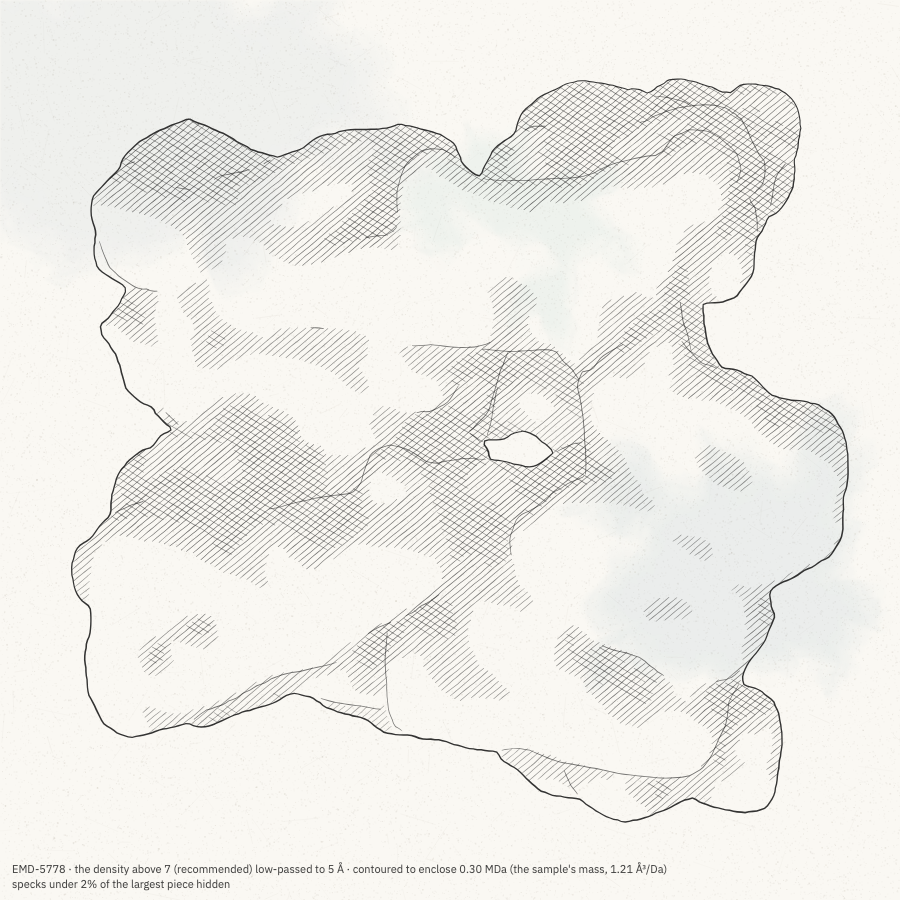
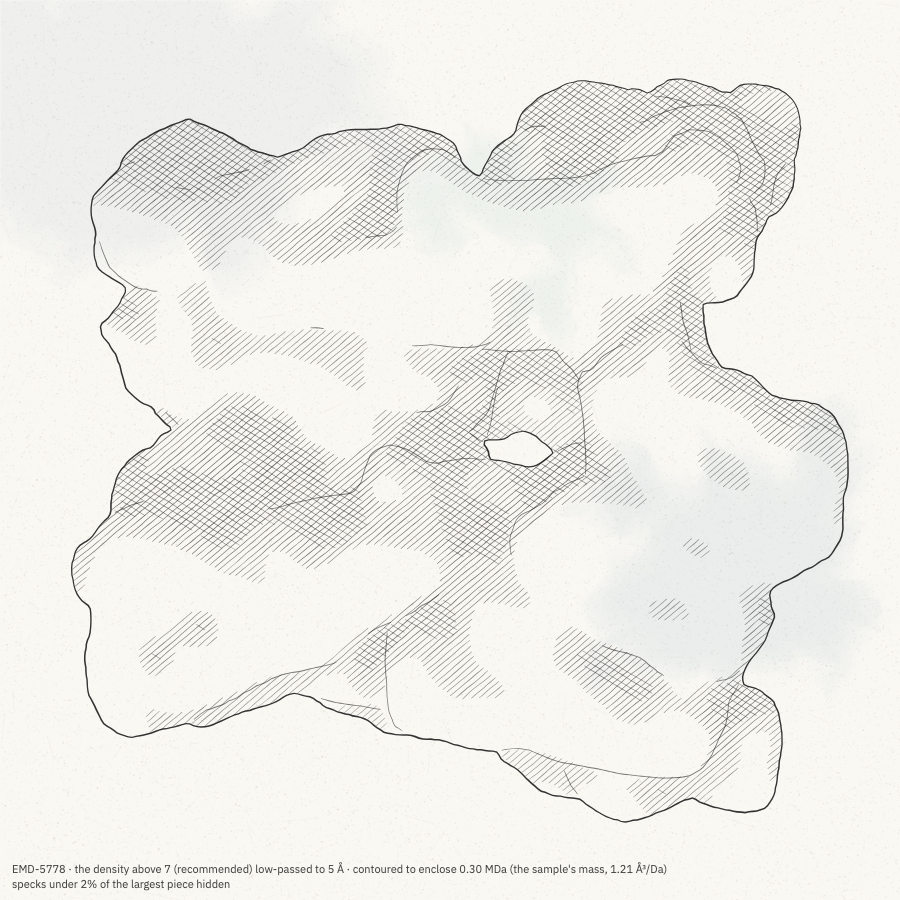
Maps: close-ups keep every atom's density; the docs' close-ups show density again
The README's close-ups (Trp93, Asp89) had no density at all: they were made while zones were low-passed. Remade.
And at full resolution a close-up breaks into a blob around each atom while its largest piece is often a neighbour's
that carving then removes, so the 2%-of-the-largest speck filter dropped a residue's own density; a close-up now
drops only true specks. Asp89 is drawn at 3 σ, where its backbone is in density and its carboxylate is not (at the
recommended 4.4 σ only its N is inside the contour, as the map says).

diff --git a/app/src/classic/mapprep.ts b/app/src/classic/mapprep.ts
@@ -131,7 +131,9 @@ export function prepareMap(whole: DensityMap, style: Style, s: Structure | null,
     if (R > 0 || o.finish !== 'sketch') { const par = new Int32Array(nv); for (let v = 0; v < nv; v++) par[v] = v; const find = (x: number) => { while (par[x] !== x) { par[x] = par[par[x]]; x = par[x] } return x };
       for (let t = 0; t < tri.length; t += 3) { const a = find(tri[t]), b = find(tri[t + 1]), c = find(tri[t + 2]); par[b] = a; par[find(c)] = a }
       const size = new Map<number, number>(); for (let v = 0; v < nv; v++) { const r = find(v); size.set(r, (size.get(r) || 0) + 1) }
-      const big = Math.max(0, ...size.values()) * 0.02, keep: number[] = [];
+      // (a close-up at full resolution breaks into a blob around each atom, and its largest piece is often a neighbour's
+      // that carving then removes: there only true specks go, whatever their neighbours' size)
+      const big = zoneSel ? 12 : Math.max(0, ...size.values()) * 0.02, keep: number[] = [];
       for (let t = 0; t < tri.length; t += 3) if (size.get(find(tri[t]))! >= big) keep.push(tri[t], tri[t + 1], tri[t + 2]); else dust++;
       tri = new Uint32Array(keep) }
     if (carve > 0 && atoms.length) { const cd = zoneSel ? Float32Array.from({ length: nv }, (_, v) => carveDist(iso.positions[v * 3], iso.positions[v * 3 + 1], iso.positions[v * 3 + 2])) : dist;
@@ -184,7 +186,7 @@ export function prepareMap(whole: DensityMap, style: Style, s: Structure | null,
   const caption = [m.name, R > 0 ? `the density above ${+level.toPrecision(3)}${style.map.level == null && style.map.sigma == null && m.level != null ? ' (recommended)' : ''} low-passed to ${R} Å` : '', byVolume ? mass <= 0 ? 'contoured at 2 σ' : `contoured to enclose ${(mass / 1e6 >= 0.1 ? (mass / 1e6).toFixed(2) + ' MDa' : Math.round(mass / 1e3) + ' kDa')} (${massFrom}'s mass, 1.21 Å³/Da)`
       : `contoured at ${+level.toPrecision(3)}${style.map.level == null && style.map.sigma == null && m.level != null ? ' (recommended)' : ''}, ${sigma.toFixed(1)} σ`,
     o.style === 'layers' ? `levels ×${factors.join(', ×')}` : '', zoned ? 'the density within 5 Å of the model' : o.carve > 0 && atoms.length ? `carved at ${o.carve} Å of ${zoneSel ? o.zone : 'the model'}` : zoneSel ? `the density joined to ${o.zone}, within ${zonePad} Å` : m !== whole ? `cropped to the model's box and ${o.crop} Å` : '',
-    dust ? 'specks under 2% of the largest piece hidden' : '', g0 !== m && !byVolume ? `drawn at ${g.step[0].toFixed(1)} Å per voxel${R > 0 ? '' : ', at the level enclosing the same volume'}` : '',
+    dust ? zoneSel ? 'specks hidden' : 'specks under 2% of the largest piece hidden' : '', g0 !== m && !byVolume ? `drawn at ${g.step[0].toFixed(1)} Å per voxel${R > 0 ? '' : ', at the level enclosing the same volume'}` : '',
     o.localResolution === 'bfactor' && s ? 'line looseness from B-factors' : o.localResolution === 'map' && localRes ? 'line looseness from local resolution' : ''].filter(Boolean).join(' · ');
   const corners: number[][] = []; for (const a of [0, 1]) for (const b of [0, 1]) for (const c of [0, 1]) corners.push(turn(g.origin[0] + a * (g.nx - 1) * g.step[0], g.origin[1] + b * (g.ny - 1) * g.step[1], g.origin[2] + c * (g.nz - 1) * g.step[2]));
   const out: EngineMap = { name: m.name, levels, primary, wire, unsupported, caption, sample: samplerOf(g, base, level, gLevel),

diff --git a/python/molsketch/_core.js b/python/molsketch/_core.js
@@ -7018,7 +7018,7 @@
           const r = find(v);
           size.set(r, (size.get(r) || 0) + 1);
         }
-        const big = Math.max(0, ...size.values()) * 0.02, keep2 = [];
+        const big = zoneSel ? 12 : Math.max(0, ...size.values()) * 0.02, keep2 = [];
         for (let t = 0; t < tri.length; t += 3) if (size.get(find(tri[t])) >= big) keep2.push(tri[t], tri[t + 1], tri[t + 2]);
         else dust++;
         tri = new Uint32Array(keep2);
@@ -7115,7 +7115,7 @@
       byVolume ? mass <= 0 ? "contoured at 2 \u03C3" : `contoured to enclose ${mass / 1e6 >= 0.1 ? (mass / 1e6).toFixed(2) + " MDa" : Math.round(mass / 1e3) + " kDa"} (${massFrom}'s mass, 1.21 \xC5\xB3/Da)` : `contoured at ${+level.toPrecision(3)}${style.map.level == null && style.map.sigma == null && m.level != null ? " (recommended)" : ""}, ${sigma.toFixed(1)} \u03C3`,
       o.style === "layers" ? `levels \xD7${factors.join(", \xD7")}` : "",
       zoned ? "the density within 5 \xC5 of the model" : o.carve > 0 && atoms.length ? `carved at ${o.carve} \xC5 of ${zoneSel ? o.zone : "the model"}` : zoneSel ? `the density joined to ${o.zone}, within ${zonePad} \xC5` : m !== whole ? `cropped to the model's box and ${o.crop} \xC5` : "",
-      dust ? "specks under 2% of the largest piece hidden" : "",
+      dust ? zoneSel ? "specks hidden" : "specks under 2% of the largest piece hidden" : "",
       g0 !== m && !byVolume ? `drawn at ${g2.step[0].toFixed(1)} \xC5 per voxel${R > 0 ? "" : ", at the level enclosing the same volume"}` : "",
       o.localResolution === "bfactor" && s ? "line looseness from B-factors" : o.localResolution === "map" && localRes ? "line looseness from local resolution" : ""
     ].filter(Boolean).join(" \xB7 ");

diff --git a/tools/make_images.py b/tools/make_images.py
@@ -76,7 +76,7 @@ def turntable():
 
 def maps():
     """cryo-EM maps: TRPV1 (EMD-5778) on its own and with its model (3J5P); Trp93 of apoferritin (7A4M, EMD-11638) in
-    its density at the recommended level and at 3 σ; Asp89, whose side chain has lost its density"""
+    its density at the recommended level and at 3 σ; Asp89 at 3 σ, whose side chain has lost its density"""
     say(ms.fetch_map("EMD-5778").save(IMG / "map_alone.png", (900, 900)))
     say(ms.fetch_map("EMD-5778").look("ink").save(IMG / "map_alone_ink.png", (900, 900)))
     say(ms.fetch("3J5P", map=True).save(IMG / "map_with_model.png", (900, 900)))
@@ -85,7 +85,7 @@ def maps():
     for name, extra in (("map_side_chain", {}), ("map_side_chain_3sigma", {"sigma": 3})):
         say(ms.fetch("7A4M", map=True).map(zone=trp, carve=2, **extra).show(sticks=trp, cartoon=None).save(IMG / f"{name}.png", (900, 900)))
     asp = "resi 89 and not hydro"
-    say(ms.fetch("7A4M", map=True).map(zone=asp, carve=2).show(sticks=asp, cartoon=None).save(IMG / "map_damaged_side_chain.png", (900, 900)))
+    say(ms.fetch("7A4M", map=True).map(zone=asp, carve=2, sigma=3).show(sticks=asp, cartoon=None).save(IMG / "map_damaged_side_chain.png", (900, 900)))
 
 
 def styles():

diff --git a/docs/maps.md b/docs/maps.md
@@ -9,7 +9,7 @@ map appears to show is written in the caption under the drawing.
 | ![TRPV1 map on its own](img/map_alone_ink.png) | ![TRPV1 with its model](img/map_with_model.png) |
 | TRPV1 (EMD-5778) on its own | with its model (PDB 3J5P) |
 | ![Trp93 in its density](img/map_side_chain_3sigma.png) | ![Asp89, side chain without density](img/map_damaged_side_chain.png) |
-| Trp93 of apoferritin in its density, 3 σ | Asp89 at the recommended level: the backbone is in density, the carboxylate is not |
+| Trp93 of apoferritin in its density, 3 σ | Asp89 at 3 σ: the backbone is in density, the carboxylate is not |
 
 ## Getting a map
 
